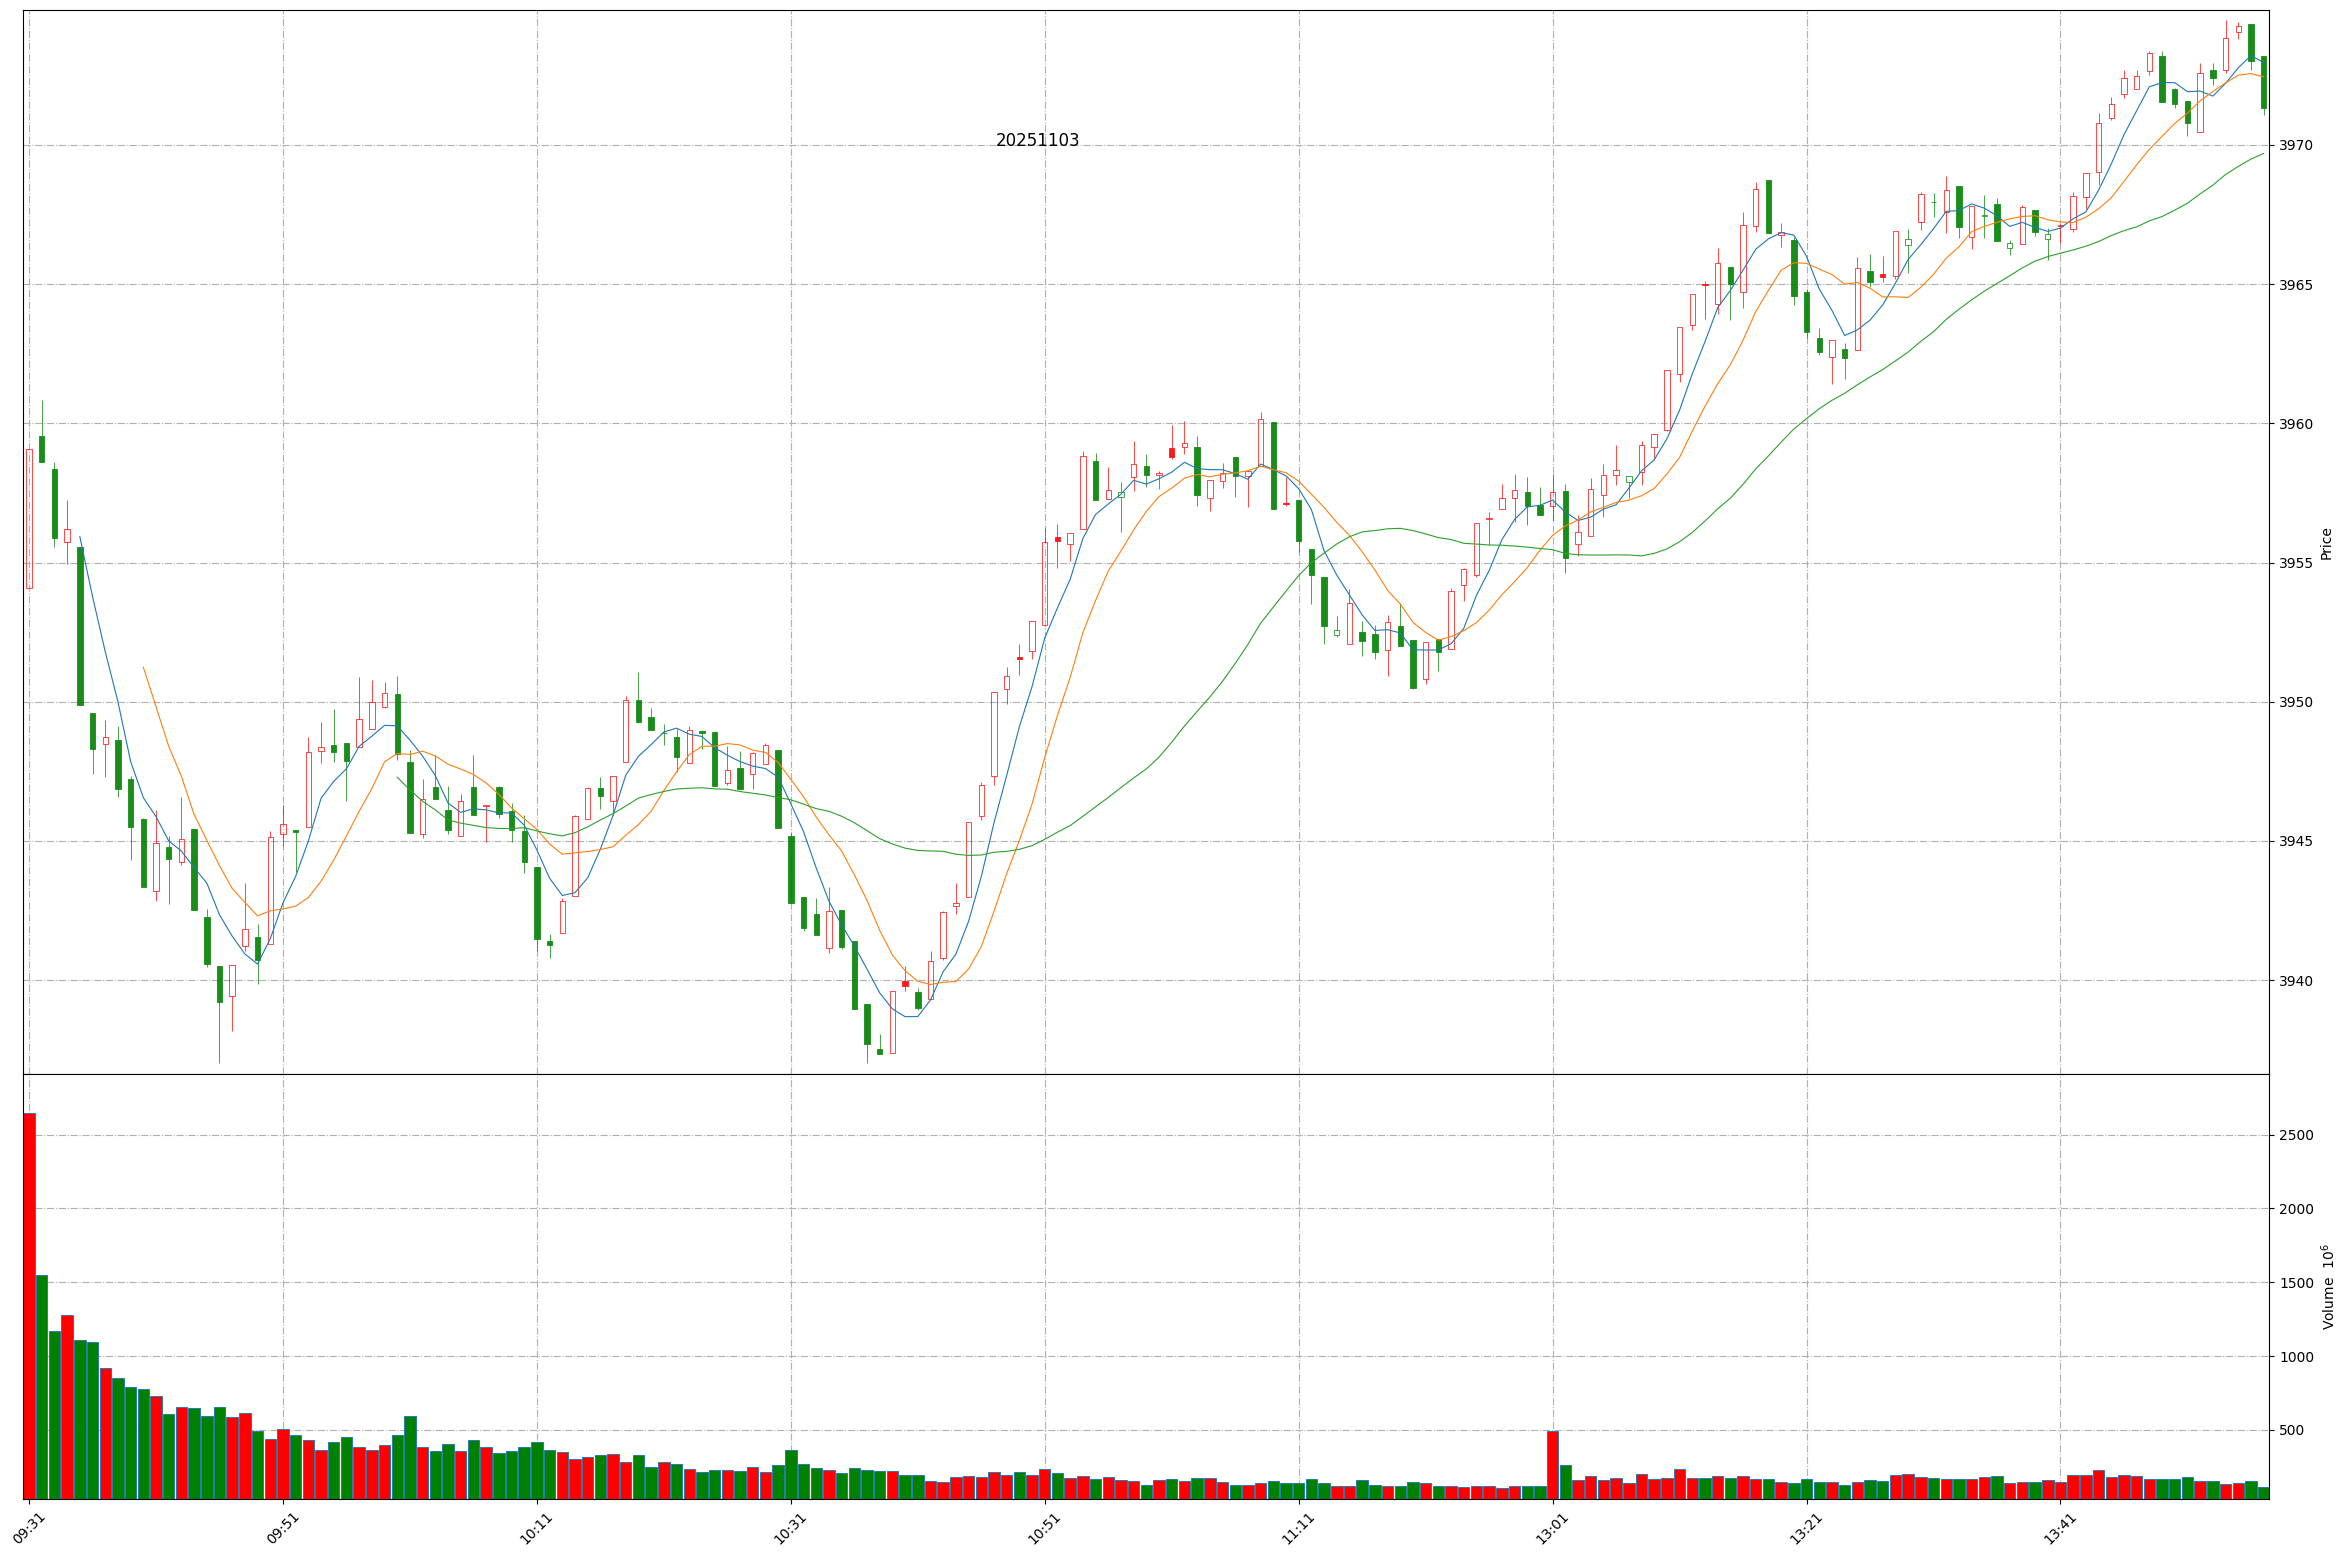
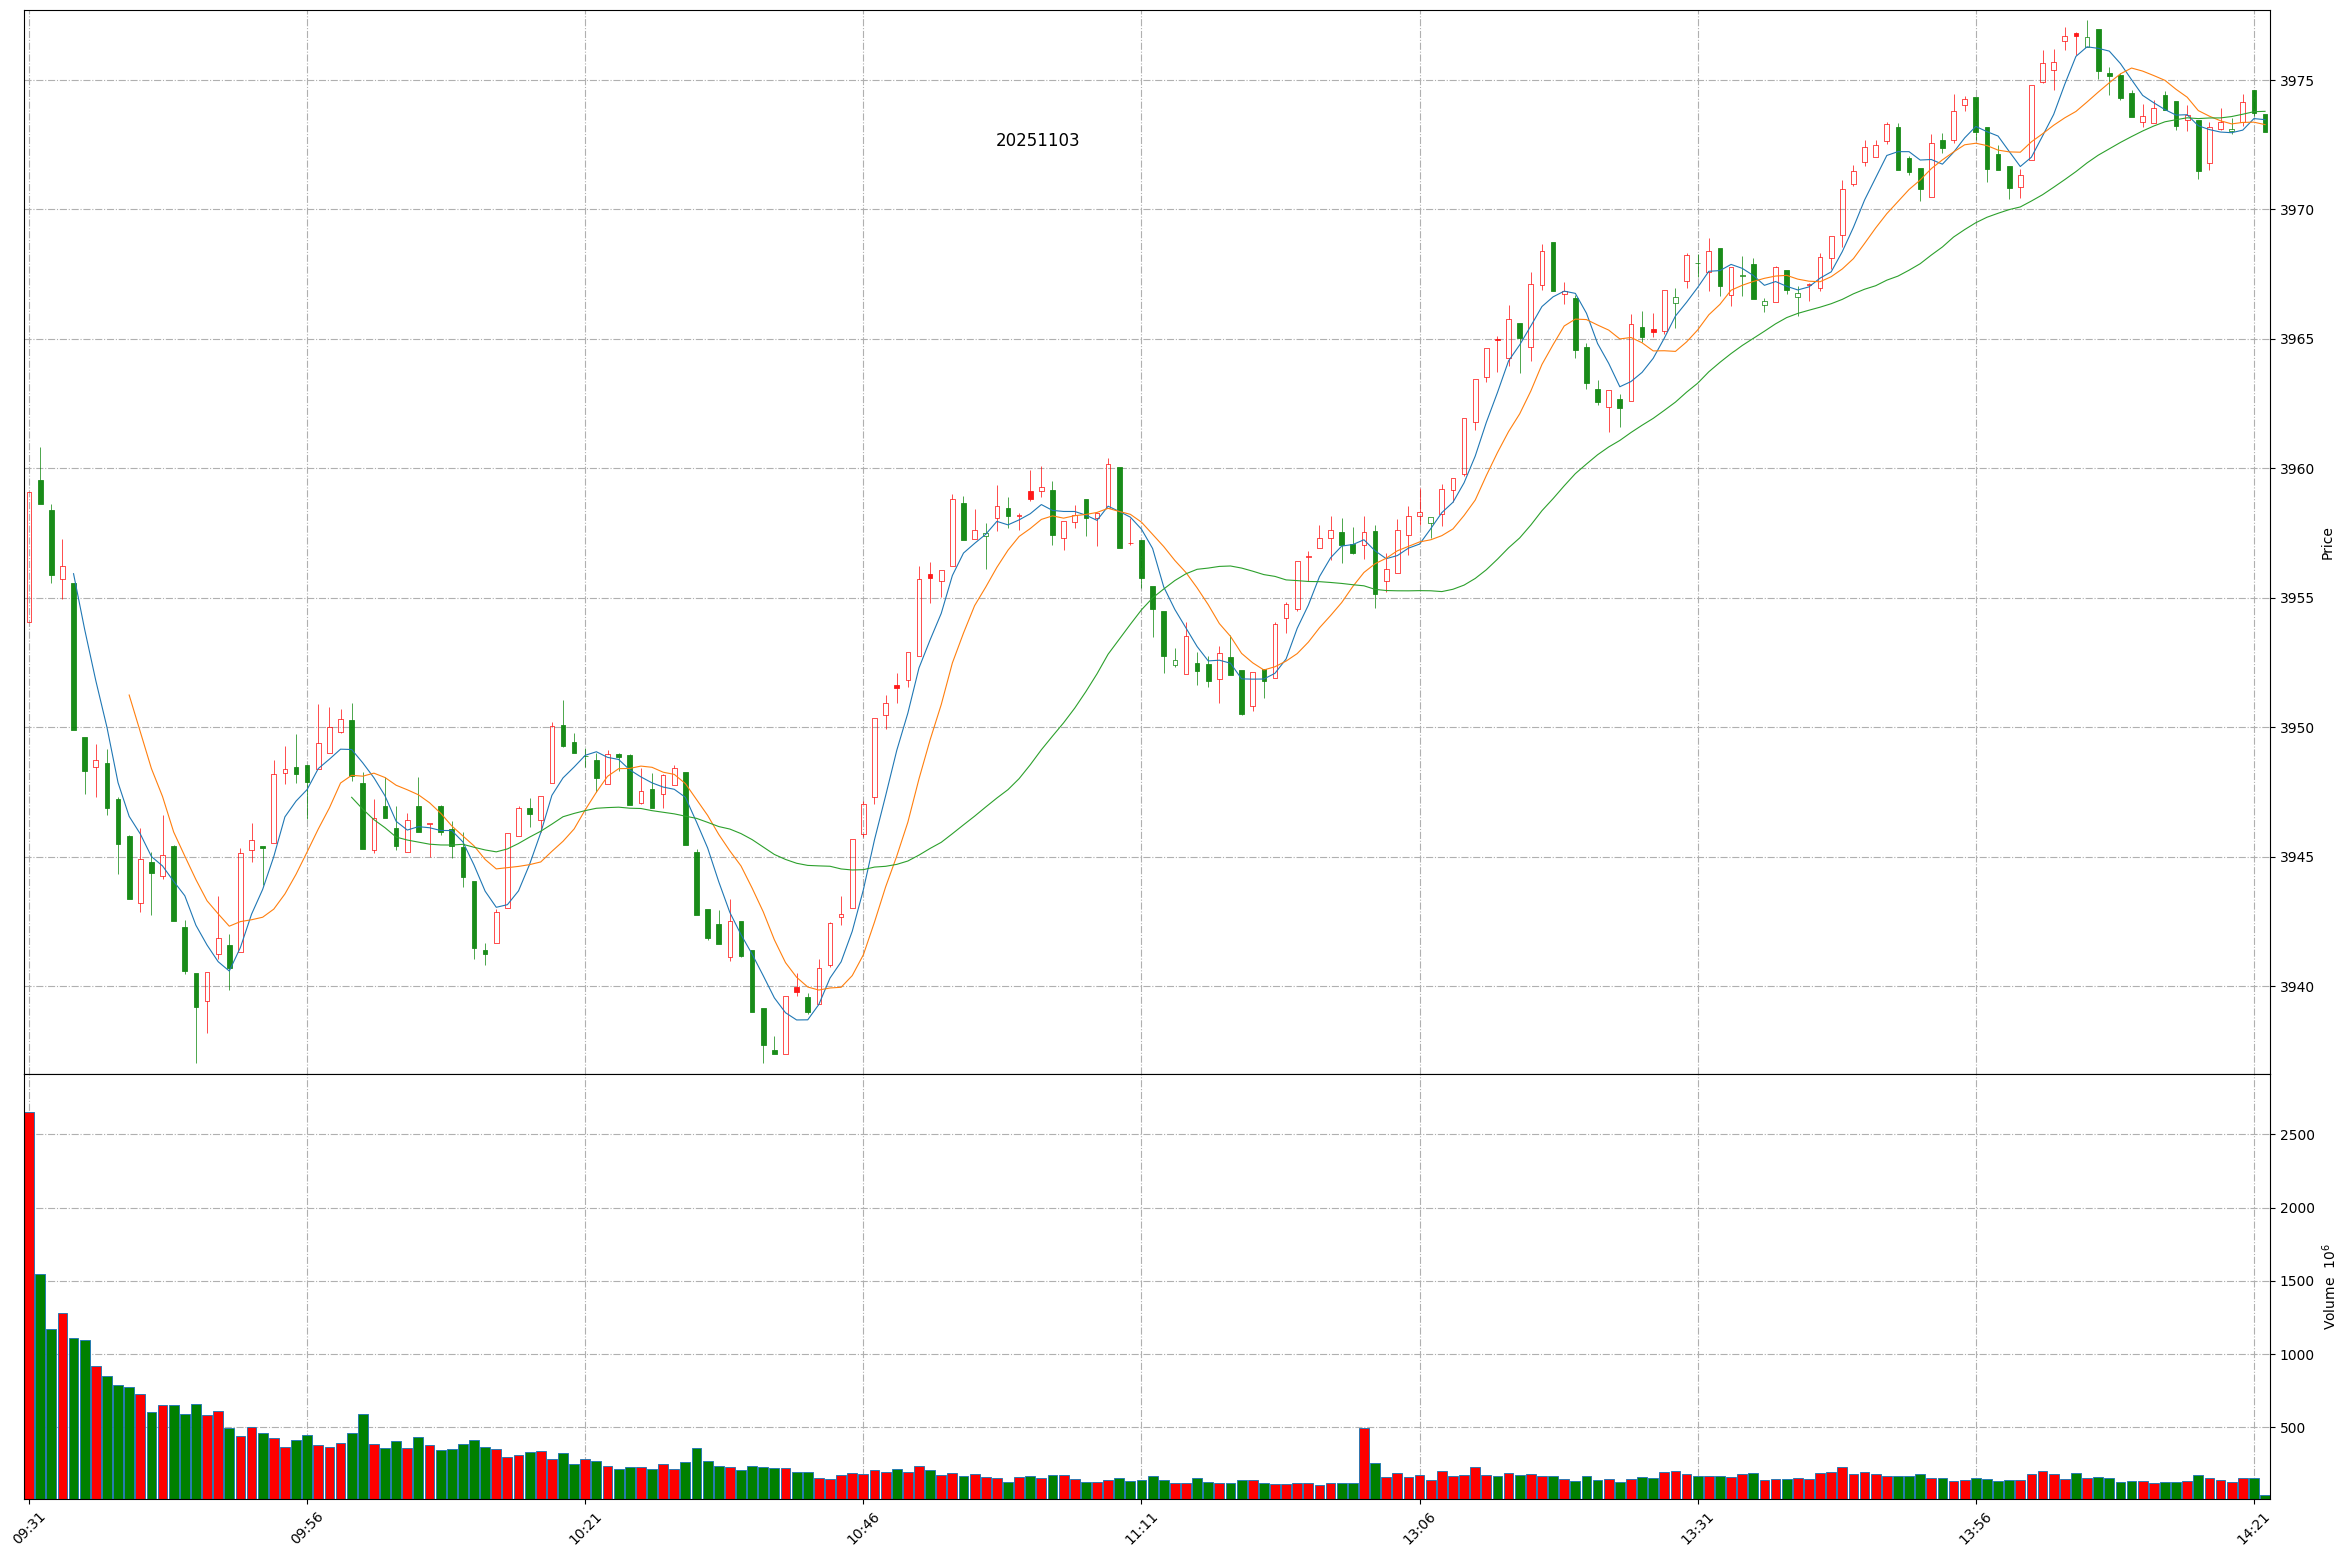
Github action update at 2025-11-03 14:21:31.

diff --git a/README.md b/README.md
@@ -1,11 +1,11 @@
 
 # Daily-A-share-market-quotes 每日 A 股指数（5min 更新）- 20251103
 
-### 上证指数 20251103 13:57
+### 上证指数 20251103 14:21
 ![](./fig/2025/11/20251103-sh000001.png)
 
-### 深证成指 20251103 13:57
+### 深证成指 20251103 14:21
 ![](./fig/2025/11/20251103-sz399001.png)
 
-### 北证50 20251103 13:57
+### 北证50 20251103 14:21
 ![](./fig/2025/11/20251103-bj899050.png)
